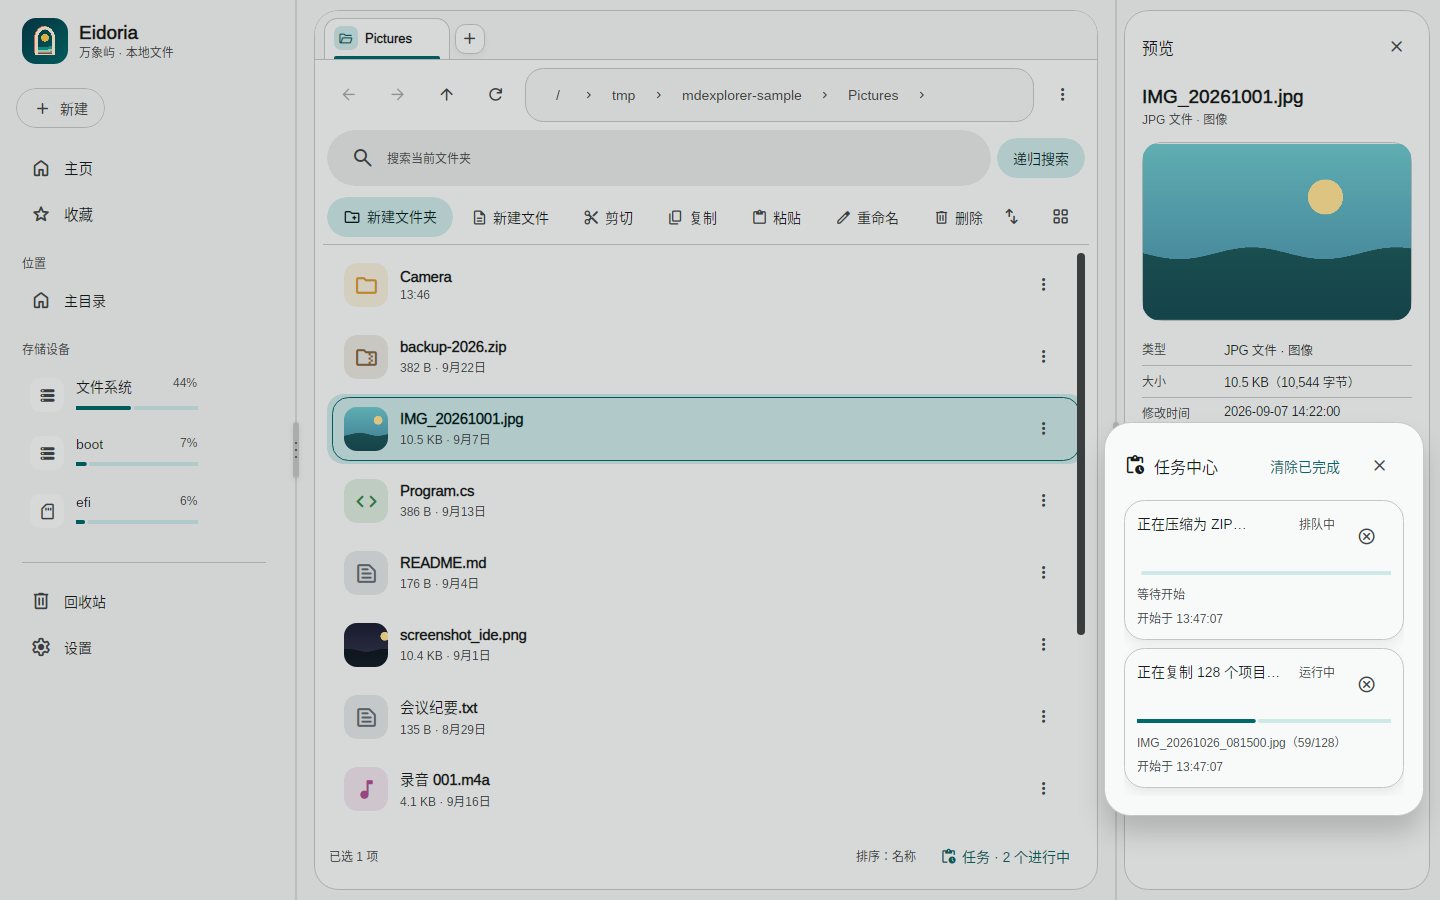
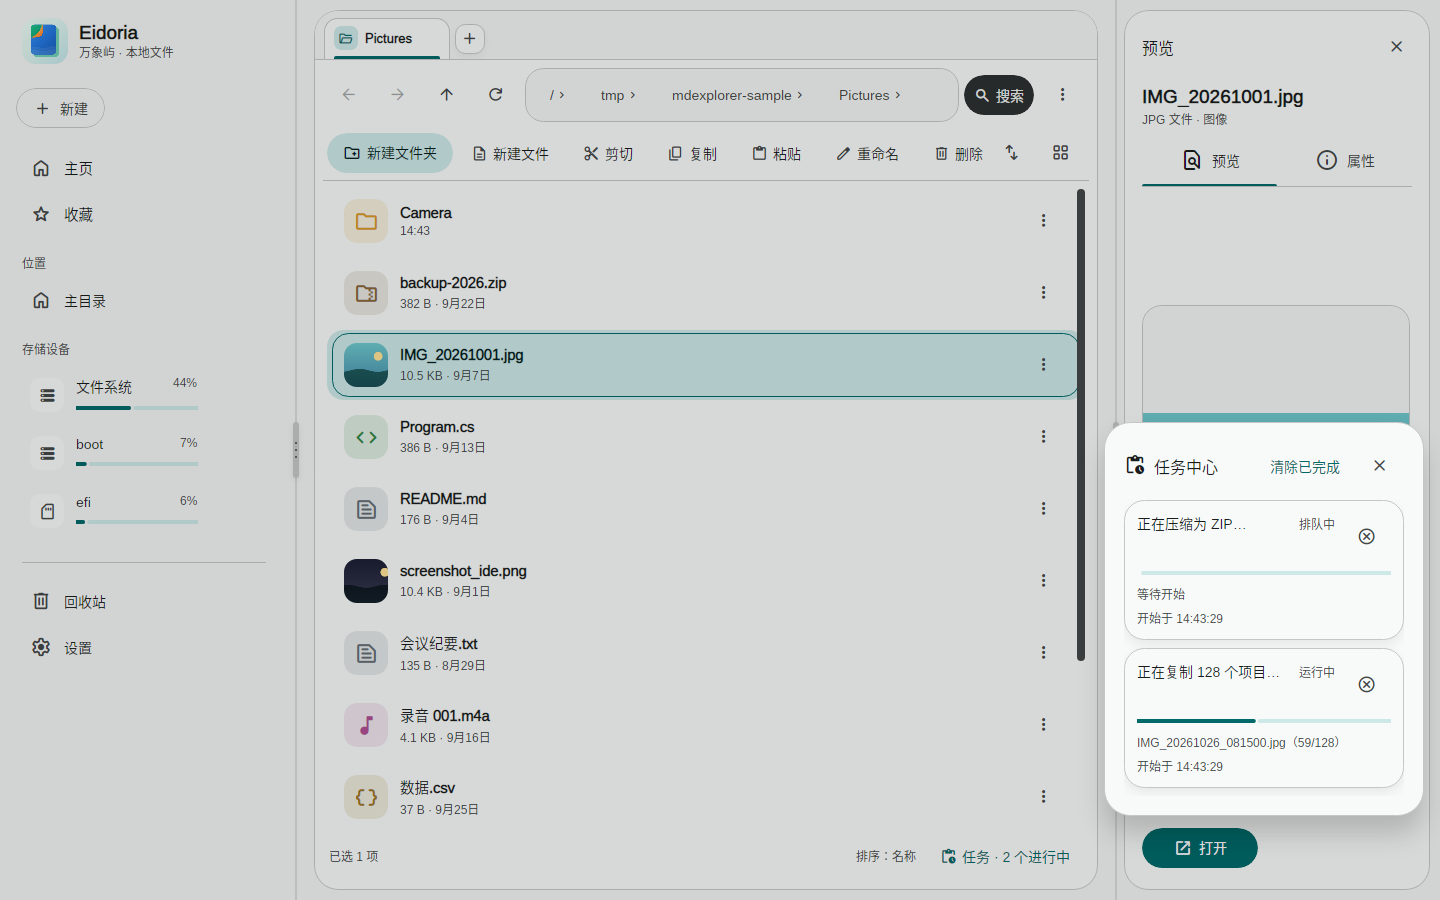
docs: 归档 v0.11 界面与截图

diff --git a/docs/RESPONSIVE-LAYOUT.md b/docs/RESPONSIVE-LAYOUT.md
@@ -43,10 +43,10 @@
 
 - **导航区（Nav）**：一级目的地；形态 ∈ {底部栏， 导轨， 抽屉（模态/永久）}。
 - **寻址区（Locate）**：当前位置表达 + 历史（后退/前进/向上）；形态 ∈ {标题+溢出， 折叠面包屑， 完整面包屑， 面包屑胶囊（可编辑）}。
-- **搜索区（Search）**：`SearchBar`（入口）→ `SearchView`（全屏/停靠）。
+- **搜索区（Search）**：迷你搜索岛（入口）→ 悬浮搜索面板（内含 `MdSearchBar`；主页仍可直接使用搜索栏）。
 - **动作区（Actions）**：当前上下文写操作；形态 ∈ {FAB+菜单， 顶栏图标， 工具栏， 选择态上下文栏}。
 - **内容区（Content）**：文件列表/网格/详细信息，含其列头/分组头/状态（加载骨架、空态、无权态）。
-- **洞察区（Insight）**：预览 + 元数据 + 主动作（打开/共享）；形态 ∈ {整页， 底部 Sheet， 侧栏窗格， 速览浮层}。
+- **洞察区（Insight）**：「预览 / 属性」双页签 + 主动作（打开/共享）；形态 ∈ {悬浮窗， 底部 Sheet， 侧栏窗格， 速览浮层}。
 - **状态区（Status）**：条目计数、存储余量、在途任务入口；形态 ∈ {顶部卡片（主页）, 底状态条， 迷你任务条}。
 
 红圈编号只保证**单张图内唯一**，每节图例为该图的准绳。
@@ -57,14 +57,14 @@
 
 ![Compact 线框 390×844](assets/layouts/layout-compact-390.svg)
 
-**区域图例：** ① 顶部小应用栏（导航抽屉入口 ☰ + 目的地标题 + 溢出 ⋮） ② 搜索栏（胶囊、点击进**全屏 SearchView**:近搜、建议、结果复用 Content 列表） ③ 文件列表（两行：名 16sp/注脚 12sp，右尾 ⋮ 单文件菜单，行高 60） ④ FAB（新建：文件/文件夹二项小菜单） ⑤ 底部导航栏（主页/最近/收藏/设置；分类与卷走 ☰ 模态抽屉与主页聚合卡）。
+**区域图例：** ① 顶部小应用栏（导航抽屉入口 ☰ + 目的地标题 + 溢出 ⋮） ② 搜索入口（主页为胶囊搜索栏；文件夹页收进导航行迷你搜索岛，点击展开悬浮搜索面板：输入筛选、回车递归） ③ 文件列表（两行：名 16sp/注脚 12sp，右尾 ⋮ 单文件菜单，行高 60） ④ FAB（新建：文件/文件夹二项小菜单） ⑤ 底部导航栏（主页/最近/收藏/设置；分类与卷走 ☰ 模态抽屉与主页聚合卡）。
 
 要点（规范）：
 
 1. **主页与文件夹页是同一骨架换内容**：主页在 ③ 前多两段——存储卡（量条 + 「内部存储」)与类别 Chip 横滑行（图片/视频/音频/文档/下载/压缩包，点击即类别结果页）;进入文件夹后这两段消失，腾出空间给折叠面包屑单行（`卷 › 当前文件夹` + 右侧排序与视图切换，点面包屑以 Sheet 展开全路径逐段跳转）。
 2. **打开 = 点按**；长按 ③ 任一行 → **选择模式**：① 变为上下文栏（✕ + 「已选 N」 + 全选 + 共享/删除/⋮,表面用 `secondaryContainer`)，行首出现圆形勾选标记区，④⑤ 收起；系统返回先退选择模式再退导航栈。
 3. **单文件 ⋮ / 选集长菜单** 一律**底部工作表**(Sheet）承载（重命名/详细信息/压缩/删除…)，重命名等表单走全屏对话框，毁灭项 `error` 色 + 二级确认。
-4. **预览**：点文件（非文件夹）默认以系统打开还是先进预览？定版：**点按先进预览页**（全屏：内容区 + 底部主动作「打开」与次动作共享/更多），文件夹点按进入；长按文件直接进入选择模式而非预览。此默认可在设置改「点按直接打开」。
+4. **预览**：点文件（非文件夹）默认以系统打开还是先进预览？定版：**点按先打开悬浮预览窗**（`MdFloatingWindow`：可拖/缩放/最小化，「预览 / 属性」双页签 + 底部主动作「打开」），文件夹点按进入；长按文件直接进入选择模式而非预览。此默认可在设置改「点按直接打开」。
 5. **任务反馈**：复制类长任务在 ⑤ 上沿出迷你进度条（文件名 + 百分比 + ✕)，点开为任务 Sheet；短反馈 Snackbar 位于 FAB 之上避让。
 6. **滚动收纳**：列表下滚时 ① 标题可收缩，② 不跟随消失（文件场景找文件优先，搜索恒近手）;FAB 滚动中保持可见。
 
@@ -74,7 +74,7 @@
 
 ![Medium 线框 768×1024](assets/layouts/layout-medium-768.svg)
 
-**区域图例：** ① 左侧导轨 Rail(80 dp：顶部 FAB，下方垂直导航项，激活项胶囊 `secondaryContainer`) ② 顶栏（标题 + 溢出）下方通栏搜索（激活为**停靠 SearchView**:搜索栏下出结果面板不离页） ③ 内容区（默认**网格 4 列**起，卡片缩略 64 dp 高 + 名/大小两行，信息密度高 Compact 一档） ④ Rail 顶的新建 FAB。
+**区域图例：** ① 左侧导轨 Rail(80 dp：顶部 FAB，下方垂直导航项，激活项胶囊 `secondaryContainer`) ② 导航行迷你搜索岛（点击展开悬浮搜索面板，不离页；主页为通栏搜索栏） ③ 内容区（默认**网格 4 列**起，卡片缩略 64 dp 高 + 名/大小两行，信息密度高 Compact 一档） ④ Rail 顶的新建 FAB。
 
 要点：
 
@@ -135,7 +135,7 @@
 | 加载（大目录） | 顶细进度条（不确定）+ 4 行骨架闪 | 同 + 计数递增显于排序行右侧 | 状态栏计数递增 + 细进度贴工具栏下沿 |
 | 空文件夹 | 居中空态（大图标 + 「这里还没有文件」 + 新建按钮） | 同左（最大宽 420） | 同 |
 | 未授权（Android） | 全屏横幅卡（为什么 + 授权 CTA + 已授权位置入口） | 内容区上部 Banner + CTA | （桌面无此态）无权目录为错误卡 + 系统处理指引 |
-| 搜索激活 | 全屏 SearchView（近搜词 + 建议 Chip + 结果列表带路径注脚） | 停靠：搜索栏下结果面板（宽同栏，内部滚动） | 停靠 + 右列可直接出选集预览 |
+| 搜索激活 | 悬浮搜索面板（近搜词/建议 Chip 可后补；面板内 `MdScrollViewer`，结果复用当前列表并带路径注脚） | 同一悬浮面板（不离页） | 同一悬浮面板 + 右列可直接出选集预览 |
 | 选择模式 | 顶上下文栏 + 行首选框，FAB/底栏退场 | 顶/工具栏切换动作集（复制/剪切/共享/删除） | 工具栏变选集组 + 状态栏显已选体积 |
 | 在途任务 | 底迷你条（点开任务 Sheet） | 状态条任务钮转圈显 % | 状态栏任务区 + 浮层任务面板（关窗仍跑、托盘 Later） |
 | 冲突等待 | 全屏对话框（单项比对卡 + 三抉一 + 应用到其余勾选） | 居中对话框（480） | 同左（批量计数显「第 2/9 个」） |
@@ -151,9 +151,9 @@
 | 迁移 | 必须保留 | 允许变化 |
 |---|---|---|
 | Compact → Medium（折叠屏展开） | 当前目的地、滚动锚点（首个可见条目名）、选集、搜索词与已出结果 | 底栏→导轨、列表可保持或建议网格（不强切用户视图选择） |
-| Medium → Expanded（转横屏） | 同上 + 预览中文件改到侧栏续播/续看（PDF 页码、图片缩放复位允许） | 全屏预览收为侧栏、全屏搜索改停靠 |
+| Medium → Expanded（转横屏） | 同上 + 预览中文件改到侧栏续播/续看（PDF 页码、图片缩放复位允许） | 悬浮预览收为侧栏、搜索面板保持悬浮 |
 | Expanded → Large（窗口放宽） | 会话升格为首个标签、预览侧栏开闭位 | FAB/导轨记忆项并入抽屉 |
-| 任意回落（变窄） | 活动标签变唯一会话，其余标签栈保留待再升格唤回（上限外逐出最久未触） | 侧栏预览回整页、对话框回 Sheet/全屏——**正在编辑的表单（如重命名半截输入）迁移时不得丢字**，实现让迁移延迟到模态关闭后再换 View |
+| 任意回落（变窄） | 活动标签变唯一会话，其余标签栈保留待再升格唤回（上限外逐出最久未触） | 侧栏预览回悬浮窗、对话框回 Sheet/全屏——**正在编辑的表单（如重命名半截输入）迁移时不得丢字**，实现让迁移延迟到模态关闭后再换 View |
 | 同档内横竖互换 | 一切（含 PDF 页/图缩放状态尽量保持） | 仅列数按宽重算 |
 
 滞回：正跨档阈值 +8 dp、回跨 −8 dp 施加 100 ms 合并（开发文档 §7.3），连续拖拽中不许每帧整树重排；迁移动画只做 120 ms 淡入。

diff --git a/README.md b/README.md
@@ -4,13 +4,15 @@
 
 基于 **Avalonia 12 + .NET 10** 的跨平台（Windows / Linux / Android）**本地**文件资源管理器，采用 **Material Design 3**（`Md3.Avalonia`）设计语言，按窗口尺寸类做真响应式（Adaptive）布局：底部导航栏（Compact）→ 导轨（Medium）→ 永久抽屉 + 预览侧栏（Expanded+）。核心层平台无关，平台能力经接口适配；许可证 Apache-2.0（见 `LICENSE`）。
 
-> **状态：v0.10**——浏览/搜索/预览（图片、文本、**Markdown 渲染、代码高亮、PDF 分页**、ZIP 条目）/复制移动删除（含回收站语义）/ZIP/收藏/设置已可用；v0.2 新增文件夹外部变更自动刷新、文件夹大小、校验和与批量重命名；**v0.3 新增 Android SAF 授权文件夹浏览**；**v0.4 新增详细信息视图**；**v0.5 新增拖放与系统剪贴板互通**；**v0.6 新增浏览器标签页与 PDF 分页预览，并将产品品牌定为 Eidoria（万象屿）**（名称与图标见 `docs/BRAND.md`；仓库、命名空间、Android ApplicationId 与数据目录仍保留内部代号 MdExplorer 以兼容既有数据）；**v0.7 新增串行任务中心、可编辑地址栏、最近访问与标签页恢复**；**v0.8 按概念稿重塑视觉层级：柔和底板承载白色工作区与预览浮动卡，标签页改为与工作区同面相连的浏览器式页签，路径胶囊、类型色图标井、圆角文件卡与精确 `MdList` 选中态统一收敛，Compact 将标签轨与面包屑折叠为当前目录**；**v0.9 换装极简新 Logo（深湖拱门·金日屿浪），三栏加入自研 Material 分隔条（拖动/键盘调整并持久化宽度，原型将回流 Md3.Avalonia），目录切换/页面与侧栏补齐入场与点击动效，插件脚本完成 Lua 优先评估（MoonSharp spike、Python 走进程外）**；**v0.10 新增按文件夹记忆视图与排序（可关、可清除、最多 200 个）和应用内“减少动态效果”，Material 分隔条补齐双击/Home 复位、16px 热区与 `:reduce-motion` 状态，设置页版本改为动态读取**。标签页各自保存路径、前进/后退栈、过滤词与选集，并可跨启动恢复；PDF 预览采用 MIT 许可的 PDFtoImage/PDFium 按页光栅化（Android 内置预览需 API 31+）。音视频播放为后续里程碑；**插件系统与本地 AI 两条轨道已完成评估、仍排在核心完善之后**。
+> **状态：v0.11**——浏览/搜索/预览（图片、文本、**Markdown 渲染、代码高亮、PDF 分页**、ZIP 条目）/复制移动删除（含回收站语义）/ZIP/收藏/设置已可用；v0.2 新增文件夹外部变更自动刷新、文件夹大小、校验和与批量重命名；**v0.3 新增 Android SAF 授权文件夹浏览**；**v0.4 新增详细信息视图**；**v0.5 新增拖放与系统剪贴板互通**；**v0.6 新增浏览器标签页与 PDF 分页预览，并将产品品牌定为 Eidoria（万象屿）**（名称与图标见 `docs/BRAND.md`；仓库、命名空间、Android ApplicationId 与数据目录仍保留内部代号 MdExplorer 以兼容既有数据）；**v0.7 新增串行任务中心、可编辑地址栏、最近访问与标签页恢复**；**v0.8 按概念稿重塑视觉层级：柔和底板承载白色工作区与预览浮动卡，标签页改为与工作区同面相连的浏览器式页签，路径胶囊、类型色图标井、圆角文件卡与精确 `MdList` 选中态统一收敛，Compact 将标签轨与面包屑折叠为当前目录**；**v0.9 换装极简新 Logo（深湖拱门·金日屿浪），三栏加入自研 Material 分隔条（拖动/键盘调整并持久化宽度，原型将回流 Md3.Avalonia），目录切换/页面与侧栏补齐入场与点击动效，插件脚本完成 Lua 优先评估（MoonSharp spike、Python 走进程外）**；**v0.10 新增按文件夹记忆视图与排序（可关、可清除、最多 200 个）和应用内“减少动态效果”，Material 分隔条补齐双击/Home 复位、16px 热区与 `:reduce-motion` 状态，设置页版本改为动态读取**；**v0.11 将整行搜索改成迷你搜索岛 + 悬浮搜索面板（Ctrl+F/K、回车递归、系统返回先收面板），预览拆为“预览 / 属性”双页签且 Compact/Medium 改用 Md3.Extra `MdFloatingWindow` 悬浮预览，全仓显式溢出区统一 `MdScrollViewer`，路径胶囊点空白编辑、点分段跳转，溢出菜单改为桌面三列分组限高，并以概念稿的蓝色折页重绘图标**。标签页各自保存路径、前进/后退栈、过滤词与选集，并可跨启动恢复；PDF 预览采用 MIT 许可的 PDFtoImage/PDFium 按页光栅化（Android 内置预览需 API 31+）。音视频播放为后续里程碑；**插件系统与本地 AI 两条轨道已完成评估、仍排在核心完善之后**。
 
-## 效果（CI 无头渲染实拍，归档于 `docs/assets/screenshots/`，含 Markdown/代码/批量重命名/详细信息视图/拖放提示/标签页/PDF/地址栏/任务中心/精修主页 共 21 张）
+## 效果（CI 无头渲染实拍，归档于 `docs/assets/screenshots/`，含 Markdown/代码/批量重命名/详细信息视图/拖放提示/标签页/PDF/地址栏/任务中心/精修主页/悬浮预览/搜索岛/桌面溢出菜单 共 24 张）
 
 <img src="docs/assets/screenshots/17-large-tabs.png" alt="Large 1440：连接式双标签页 + 白色工作区 + 网格卡片 + 预览浮动卡" width="720" />
 
 <img src="docs/assets/screenshots/01-compact-390x844.png" alt="Compact 390：底部导航栏 + 列表 + FAB" width="240" /><img src="docs/assets/screenshots/02-compact-home.png" alt="Compact 主页：存储卡与分类" width="240" /><img src="docs/assets/screenshots/03-medium-768x1024.png" alt="Medium 768：导轨 + 网格" width="300" />
+
+<img src="docs/assets/screenshots/22-compact-floating-preview.png" alt="Compact 悬浮预览：可拖窗内含预览与属性双页签" width="240" /><img src="docs/assets/screenshots/23-large-search-island.png" alt="Large 悬浮搜索面板：迷你搜索岛展开后的搜索控制面" width="520" />
 
 ## 构建与运行
 
